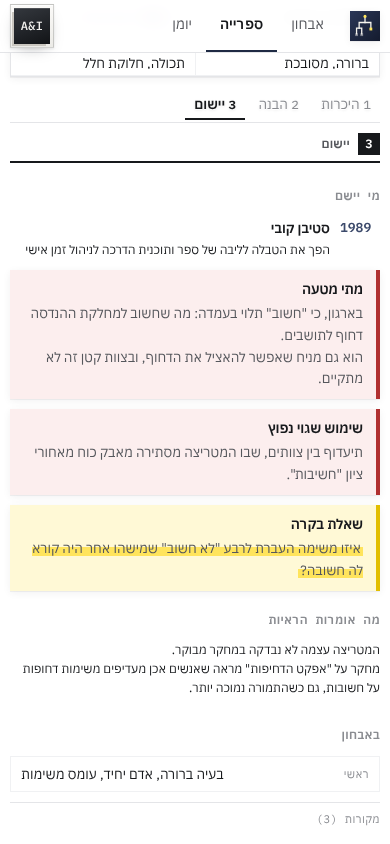
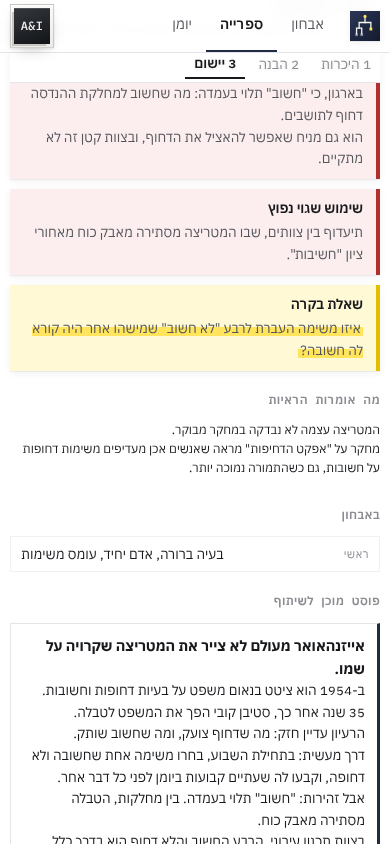
פוסט לכל מודל, ודוח A4 של התוצאה (#7)
* Build Model Matcher: data file, pure matcher, tests and static UI

- data/models.json: 16 models with true origin, attribution corrections,
  evidence level, hidden assumption, misuse, control question and sources;
  12 table states plus a chaos state; 7 contradiction rules.
- src/matcher.js: pure match(data, answers) with clarify/mismatch/framing.
- tests: three real cases (neighborhood, project budget, public
  participation), every state reachable, data integrity; Playwright e2e
  on desktop and mobile with screenshots in docs/shots.
- Static RTL interface: home with identification-key map, diagnosis,
  result with counter model and control question saved locally,
  library with evidence filter, decision log, PWA install.

Claude-Session: https://claude.ai/code/session_018qeN19UF5UhFt8VCqdemXm

* Record confirmed ownership in CLAUDE.md

Claude-Session: https://claude.ai/code/session_018qeN19UF5UhFt8VCqdemXm

* Cross-check source cards against the research report

- SWOT origin corrected to Robert F. Stewart and SOFT at SRI (Puyt et al. 2023);
  Hill & Westbrook sample is 20 companies, outputs used in 3.
- Reference class forecasting evidence raised to strong, per the report.
- Enrich 12 cards with report details; Pareto mea culpa dated 1974/1975.
- Home: cross-domain connections (rule, insight, action).
- Log: 30-day check whether the output was used in a decision.

Claude-Session: https://claude.ai/code/session_018qeN19UF5UhFt8VCqdemXm
[…]

Changed region(s): [[0.0, 0.0616, 0.9846, 1.0]]

diff --git a/src/app.js b/src/app.js
@@ -383,13 +383,49 @@ function result(params) {
       <label class="label" for="note">מה השתנה, או למה לא. בדיקה חוזרת בעוד 30 יום.</label>
       <textarea id="note" class="field" placeholder="משפט אחד ליומן">${esc(entry?.note || '')}</textarea>
       <span class="saved" aria-live="polite">נשמר</span>
-    </div>`;
+    </div>
+    <button class="press btn btn-main a4-btn" data-print>דוח A4 לישיבה</button>
+    <p class="src">דוח של עמוד אחד: האבחון, המודלים, הצעדים ושאלת הבקרה. אפשר לשמור אותו כ-PDF.</p>`;
 
   return layout('lay-result', [
     { id: 'sum', label: '1 האבחון', html: summary },
     { id: 'models', label: '2 המודלים', html: zone(2, 'המודלים') + tabs('res', views, params.v) },
     { id: 'act', label: '3 יישום', html: act },
-  ], params);
+  ], params) + report(answers, r, entry);
+}
+
+// ---------- דוח A4: עמוד אחד לישיבה, מוצג רק בהדפסה ----------
+function report(answers, r, entry) {
+  const s = r.state;
+  const today = new Date();
+  const fmt = (d) => d.toLocaleDateString('he-IL');
+  const recheck = new Date((entry ? +new Date(entry.date) : +today) + 30 * DAY);
+  const desc = entry?.description || store.get(DRAFT_KEY, '');
+  const mcol = (m, role, why) => `<div class="rp-model">
+    <span class="rp-role">${role}</span>
+    <div class="rp-mhead"><div><h3>${esc(m.name)}</h3><p class="rp-src">${esc(m.author)}${m.year ? `, <span class="num">${m.year}</span>` : ''} · ${esc(DATA.meta.evidenceLevels[m.evidence].label)}</p></div><div class="rp-g">${glyph(m)}</div></div>
+    <p>${rich(m.definition)}</p>
+    <p class="rp-ins">${rich('==' + m.insight + '==')}</p>
+    ${why ? `<p class="rp-small">${rich(why)}</p>` : ''}
+    <p class="rp-small"><strong>מתי מטעה:</strong> ${rich(m.misleading)}</p>
+  </div>`;
+  return `<article class="print-report" aria-hidden="true">
+    <header class="rp-head"><div><strong>מתאם מודלים</strong> · דוח אבחון</div><div class="num">${fmt(today)}</div></header>
+    ${desc ? `<p class="rp-desc"><span class="rp-lab">הבעיה</span>${esc(desc)}</p>` : ''}
+    <section class="rp-top">
+      <div><span class="rp-lab">מצב מאובחן</span><h1>${rich(s.insight)}</h1><p><strong>${esc(s.title)}</strong> · התאמה <span class="num">${r.fit}%</span></p>
+        ${r.status === 'framing' ? '<p class="rp-box rp-insight"><strong>אין כאן פתרון. יש תהליך מסגור.</strong></p>' : ''}
+        <p class="rp-box rp-warn"><strong>תווית אזהרה:</strong> ${rich(s.warning)}</p></div>
+      <table class="rp-ans"><tbody>${QUESTION_KEYS.map((k, i) => `<tr><td class="num">${i}</td><td>${esc(titleOf(DATA, k))}</td><td><strong>${esc(labelOf(DATA, k, answers[k]))}</strong></td></tr>`).join('')}</tbody></table>
+    </section>
+    <section class="rp-models">${r.primary.map((m) => mcol(m, 'מודל ראשי')).join('')}${mcol(r.counter.model, 'מודל נגדי', r.counter.why)}</section>
+    <section class="rp-steps"><span class="rp-lab">שלושה צעדי יישום</span><ol>${s.steps.map((x, i) => `<li><span class="num">${i + 1}</span>${rich(x)}</li>`).join('')}</ol></section>
+    <section class="rp-control"><span class="rp-lab">שאלת בקרה</span>
+      <p><strong>האם המודל שינה החלטה?</strong> <span class="rp-check">כן</span><span class="rp-check">חלקית</span><span class="rp-check">לא</span> <span class="rp-small">בדיקה חוזרת: <span class="num">${fmt(recheck)}</span></span></p>
+      <p class="rp-small">${esc(r.primary[0].control)}</p>
+      <div class="rp-lines"><i></i><i></i></div></section>
+    <footer class="rp-foot">${esc(DATA.meta.tableNotice)} · modeleiatslacha-gh.vercel.app</footer>
+  </article>`;
 }
 
 function mountResult() {}
@@ -498,6 +534,9 @@ function modelPage(m, params) {
     <h2 class="sub">מה אומרות הראיות</h2><p class="small">${lines(m.evidenceNote)}</p>
     <h2 class="sub">באבחון</h2>
     ${asPrimary.length || asCounter.length ? `${asPrimary.map((s) => `<a class="dense-link press" href="${href('result', s.sample)}"><span class="label">ראשי</span><span>${esc(s.title)}</span></a>`).join('')}${asCounter.map((s) => `<a class="dense-link press" href="${href('result', s.sample)}"><span class="label">נגדי</span><span>${esc(s.title)}</span></a>`).join('')}` : `<p class="small muted">${m.inMatcher === false ? 'בספרייה בלבד. לפי הדוח, מודל נכנס לטבלה רק אחרי שהוא שינה החלטה אחת לפחות.' : 'לא מופיע באף מצב.'}</p>`}
+    <h2 class="sub">פוסט מוכן לשיתוף</h2>
+    <div class="post"><p class="post-t">${m.post.split('\n').map((l) => `<span class="line">${esc(l)}</span>`).join('')}</p>
+      <div class="row"><button class="press btn btn-quiet" data-copy="post">העתקת הפוסט</button><span class="saved copied" aria-live="polite">הועתק</span><span class="src num">${m.post.split(/\s+/).length} מילים</span></div></div>
     <details class="sources-d"><summary><span class="label">מקורות (${m.sources.length})</span></summary>
       <ol class="sources">${m.sources.map((s) => `<li>${esc(s.text)}${s.url ? ` <a href="${esc(s.url)}" target="_blank" rel="noopener">${esc(s.url.replace('https://', ''))}</a>` : ''}</li>`).join('')}</ol><p class="src">${esc(DATA.meta.sourcesNotice)}</p></details>`;
 
@@ -651,6 +690,14 @@ app.addEventListener('click', (ev) => {
   }
   const df = ev.target.closest('.demo-f');
   if (df) { const box = df.closest('[data-demo]'); box.querySelectorAll('.demo-f').forEach((f) => f.classList.toggle('on', f === df)); demoPos(box); return; }
+  if (ev.target.closest('[data-print]')) { print(); return; }
+  const cp = ev.target.closest('[data-copy]');
+  if (cp) {
+    const text = [...cp.closest('.post').querySelectorAll('.post-t .line')].map((l) => l.textContent).join('\n');
+    const done = () => { const el = cp.parentElement.querySelector('.copied'); el.classList.add('show'); setTimeout(() => el.classList.remove('show'), 1600); };
+    (navigator.clipboard?.writeText(text) || Promise.reject()).then(done).catch(() => { const t = document.createElement('textarea'); t.value = text; document.body.append(t); t.select(); try { document.execCommand('copy'); done(); } catch {} t.remove(); });
+    return;
+  }
   const cn = ev.target.closest('[data-conn]');
   if (cn) { setParam('c', cn.dataset.conn); render(); return; }
   const evb = ev.target.closest('[data-ev]');

diff --git a/src/styles.css b/src/styles.css
@@ -564,3 +564,54 @@ a.card.ccard, a.card.mcard { display: grid; }
   .cc-ins { font-size: 12.5px; height: 36px; }
   .cc-units i { width: 12px; height: 12px; }
 }
+
+/* ===== פוסט מוכן לשיתוף ===== */
+.post { border: 1px solid var(--rule); border-right: 3px solid var(--key); padding: 10px 12px; display: flex; flex-direction: column; gap: 6px; }
+.post-t { margin: 0; font-size: 13.5px; line-height: 1.6; }
+.post-t .line:first-child { font-weight: 700; font-size: 14.5px; color: var(--ink); }
+.post-t .line:last-child { font-weight: 600; color: var(--key); }
+.a4-btn { align-self: flex-start; margin-top: 6px; }
+
+/* ===== דוח A4: מוסתר במסך, עמוד אחד בהדפסה ===== */
+.print-report { display: none; }
+@media print {
+  @page { size: A4; margin: 12mm 13mm; }
+  html, body { background: #fff !important; }
+  body:has(.print-report) #app > .layout, body:has(.print-report) .topbar { display: none !important; }
+  body:has(.print-report) .print-report { display: block !important; }
+  .print-report { font-size: 10pt; line-height: 1.45; color: #111; direction: rtl; }
+  .print-report h1 { font-size: 19pt; line-height: 1.2; margin: 2px 0 4px; font-weight: 600; }
+  .print-report h3 { font-size: 12pt; margin: 0; font-weight: 700; }
+  .print-report p { margin: 0 0 4px; }
+  .rp-head { display: flex; justify-content: space-between; border-bottom: 2px solid #111; padding-bottom: 4px; margin-bottom: 8px; font-size: 10pt; }
+  .rp-lab { display: block; font-family: var(--mono); font-size: 7.5pt; color: #666; letter-spacing: .04em; margin-bottom: 2px; }
+  .rp-desc { border: 1px solid #ccc; padding: 5px 8px; margin-bottom: 8px; }
+  .rp-desc .rp-lab { display: inline; margin-left: 8px; }
+  .rp-top { display: grid; grid-template-columns: 1.3fr 1fr; gap: 12px; align-items: start; margin-bottom: 8px; }
+  .rp-box { padding: 4px 8px; border-right: 3px solid; margin-top: 4px; }
+  .rp-warn { border-color: var(--cut); background: var(--cut-wash); }
+  .rp-insight { border-color: #E2BE00; background: #FFF9D6; }
+  .rp-ans { width: 100%; border-collapse: collapse; font-size: 9pt; }
+  .rp-ans td { border-bottom: 1px solid #ddd; padding: 3px 4px; }
+  .rp-ans td.num { width: 16px; color: var(--key); }
+  .rp-models { display: grid; grid-template-columns: repeat(auto-fit, minmax(0, 1fr)); grid-auto-flow: column; gap: 10px; margin-bottom: 8px; }
+  .rp-model { border: 1px solid #bbb; padding: 6px 8px; break-inside: avoid; }
+  .rp-role { font-family: var(--mono); font-size: 7.5pt; background: #111; color: #fff; padding: 1px 6px; display: inline-block; margin-bottom: 4px; }
+  .rp-mhead { display: flex; justify-content: space-between; gap: 6px; align-items: flex-start; }
+  .rp-g { width: 78px; flex: 0 0 78px; }
+  .rp-g .glyph { width: 78px; height: auto; }
+  .rp-g .draw, .rp-g .pop, .rp-g .grow-x, .rp-g .grow-y { animation: none !important; stroke-dashoffset: 0 !important; }
+  .rp-src { font-size: 8.5pt; color: #555; }
+  .rp-ins { font-weight: 600; }
+  .rp-small { font-size: 8.5pt; color: #333; }
+  .rp-steps ol { list-style: none; margin: 0; padding: 0; display: grid; gap: 3px; }
+  .rp-steps li { display: flex; gap: 8px; align-items: flex-start; }
+  .rp-steps li .num { flex: 0 0 18px; height: 18px; display: grid; place-items: center; background: var(--bank); color: #fff; font-size: 9pt; }
+  .rp-steps, .rp-control { margin-bottom: 8px; break-inside: avoid; }
+  .rp-check { display: inline-flex; align-items: center; gap: 4px; margin: 0 8px; }
+  .rp-check::before { content: ""; width: 10px; height: 10px; border: 1px solid #111; display: inline-block; }
+  .rp-lines i { display: block; border-bottom: 1px solid #999; height: 18px; }
+  .rp-foot { border-top: 1px solid #ccc; padding-top: 4px; font-size: 7.5pt; color: #666; }
+  mark.insight { -webkit-print-color-adjust: exact; print-color-adjust: exact; }
+  .print-report * { -webkit-print-color-adjust: exact; print-color-adjust: exact; }
+}

diff --git a/tests/matcher.test.js b/tests/matcher.test.js
@@ -190,3 +190,12 @@ test('כל תחום עם מודל אחד לפחות ותובנה קצרה', () =
     assert.ok(c.insight.split(/\s+/).length <= 8, `${c.id}: תובנה עד 8 מילים`);
   }
 });
+
+test('פוסט לכל מודל: 80 עד 150 מילים, ומסתיים בשאלה', () => {
+  for (const m of data.models) {
+    const w = m.post.split(/\s+/).length;
+    assert.ok(w >= 80 && w <= 150, `${m.id}: ${w} מילים`);
+    assert.ok(m.post.trim().endsWith('?'), `${m.id}: מסתיים בשאלה`);
+    assert.ok(!/#/.test(m.post), `${m.id}: בלי האשטגים`);
+  }
+});
